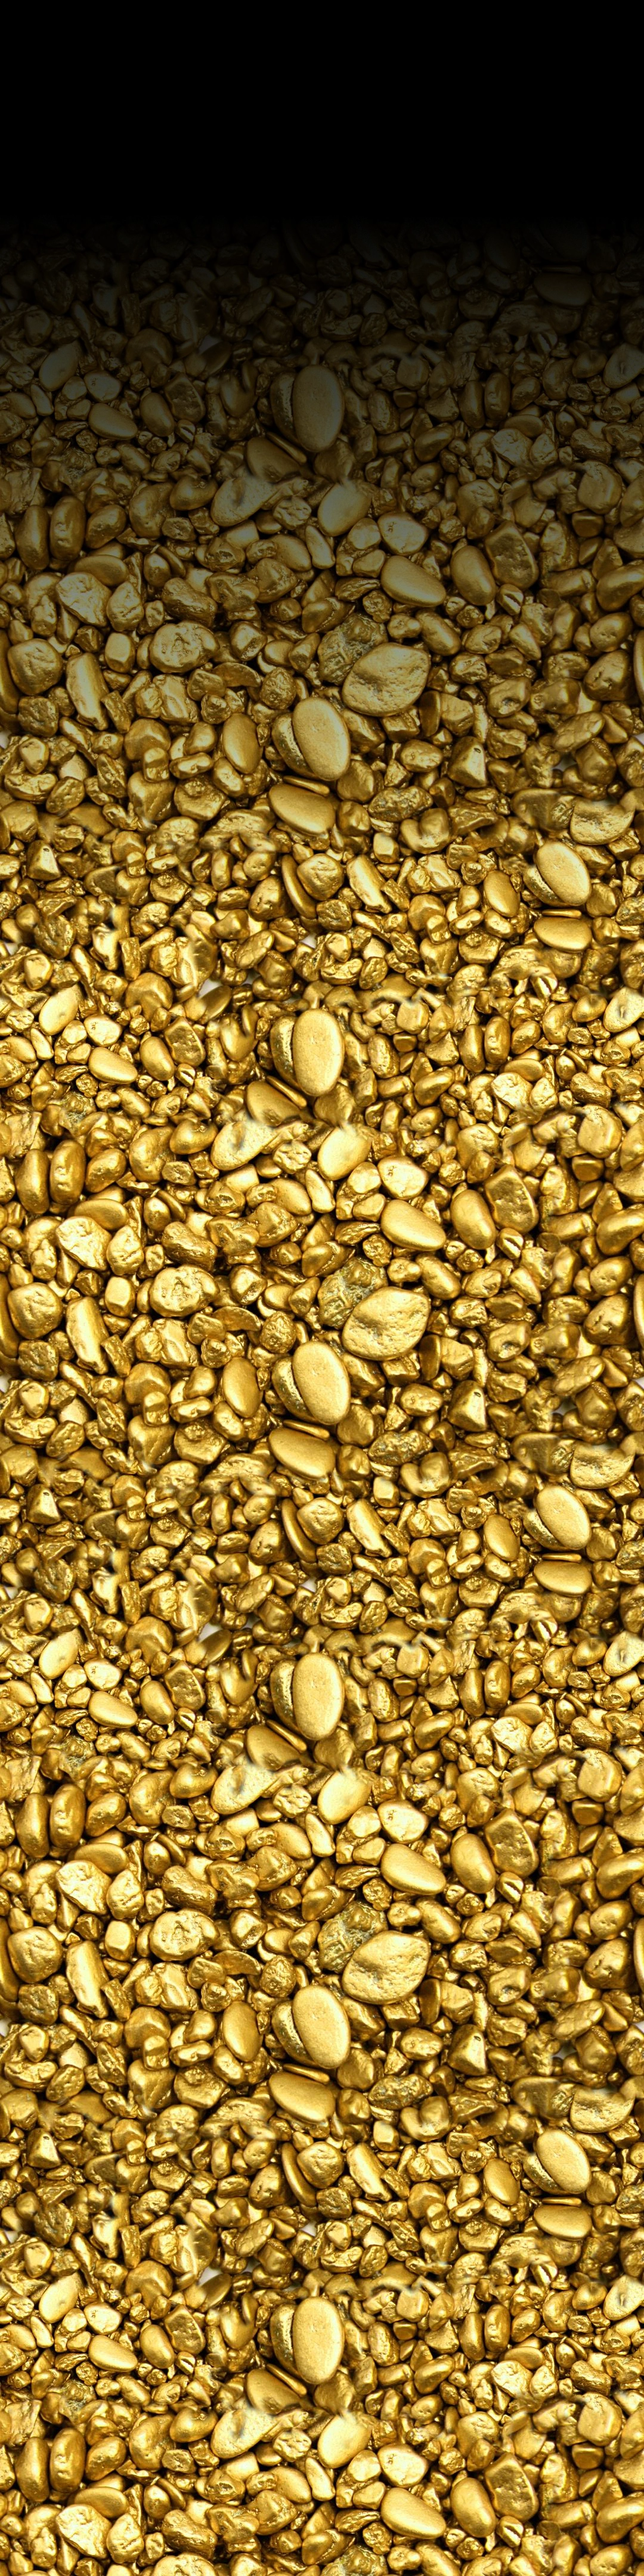
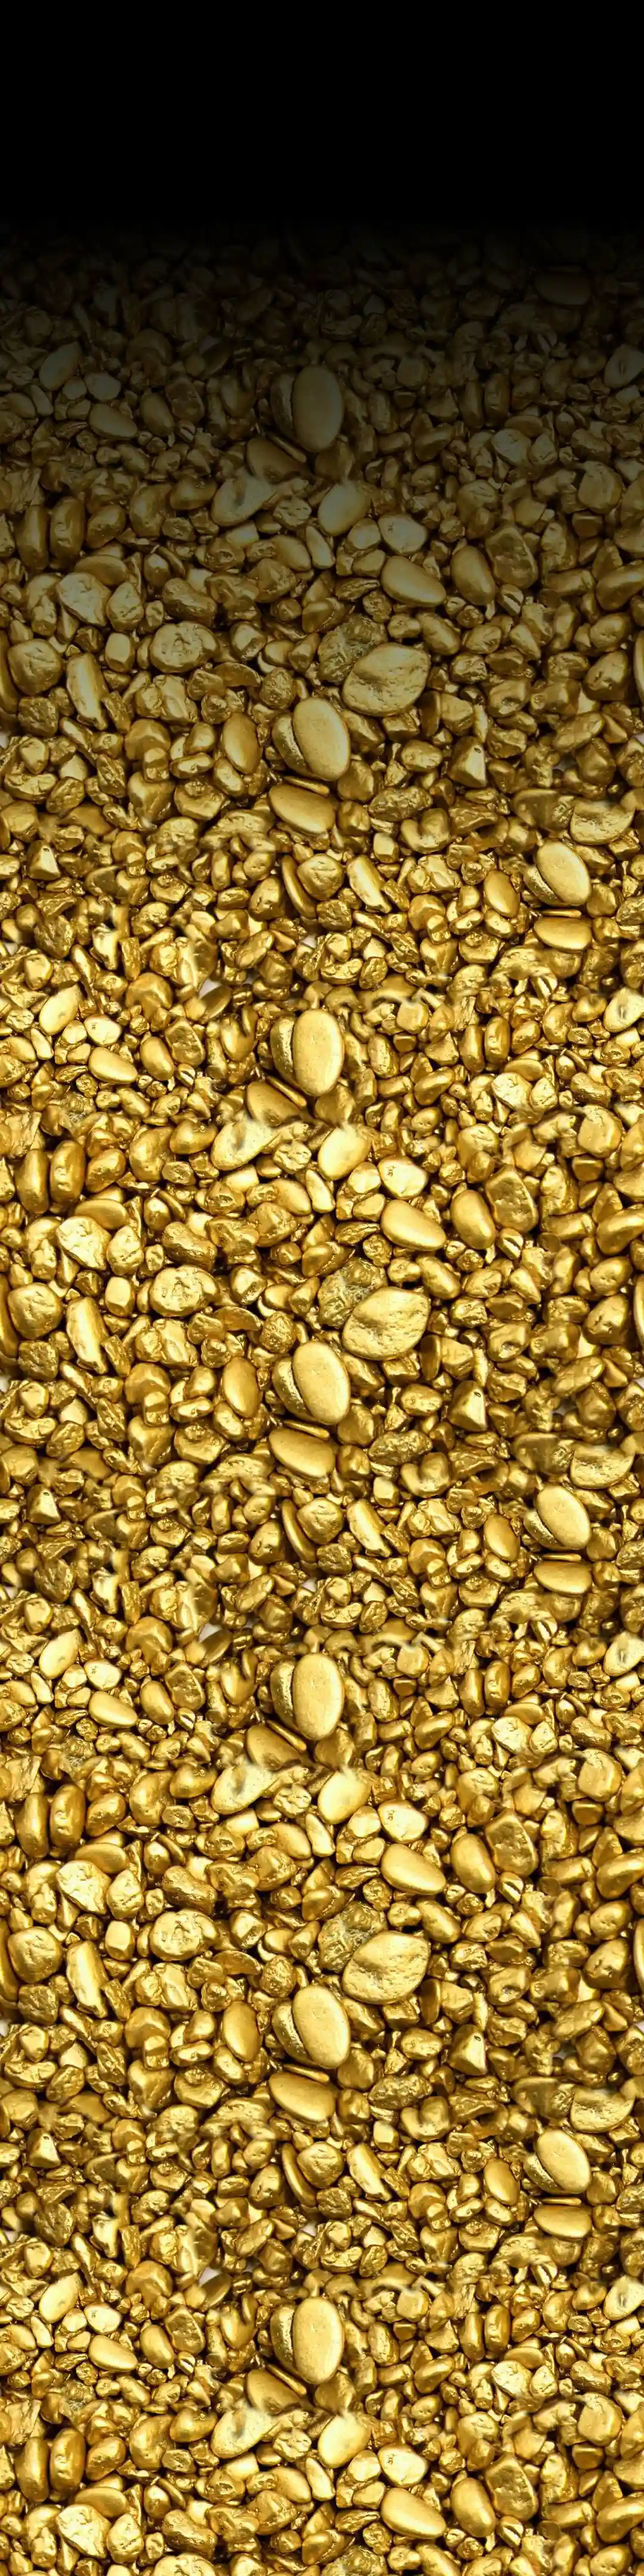
compressed images and moved css file to html public

diff --git a/frontend/src/pages/Home.js b/frontend/src/pages/Home.js
@@ -42,7 +42,7 @@ function Home () {
                         <span id="homeSubtext">EVERYTHING • EVERYONE • EVERYWHERE</span>
                         <Form className="row mx-3 mt-5 align-items-center" onSubmit={handleSubmit}>
                             <Col className="p-0" xs={10}><input type="text" id="homeSearch" placeholder="Search Nuggets..." className="rounded width100 text-center py-2" onChange={handleChange}/></Col>
-                            <Col className="p-0" xs={2}><Button variant={"theme"} type="submit" disabled={buttonDisabled} name="search" readOnly><FaSearch/></Button></Col>
+                            <Col className="p-0" xs={2}><Button variant={"theme"} type="submit" disabled={buttonDisabled} aria-label="search" readOnly><FaSearch/></Button></Col>
                         </Form>
                         <Row className="align-items-center text-center my-4 mx-1">
                             <Col className="break-line"/>

diff --git a/frontend/public/index.html b/frontend/public/index.html
@@ -36,6 +36,7 @@
     -->
     <link rel="preconnect" href="https://fonts.googleapis.com">
     <link rel="preconnect" href="https://fonts.gstatic.com" crossorigin>
+    <link href="./assets/style.css"  rel="preload" as="style" onload="this.onload=null;this.rel='stylesheet'">
     <link href="https://fonts.googleapis.com/css2?family=Merriweather&family=Poppins:wght@200&display=swap" rel="preload" as="style" onload="this.onload=null;this.rel='stylesheet'"> 
     <link href="https://fonts.googleapis.com/css2?family=Frank+Ruhl+Libre:wght@500&family=Noto+Serif+Vithkuqi:wght@500&family=Victor+Mono:wght@700&display=swap" rel="preload" as="style" onload="this.onload=null;this.rel='stylesheet'">
     <title>1001 Nuggets</title>

diff --git a/frontend/public/assets/style.css b/frontend/public/assets/style.css
@@ -11,13 +11,13 @@ a {
 }
 
 .bg-main {
-    background-image: url("../../public/assets/images/GoldNuggets3ExtendedGrad.webp")!important;
+    background-image: url("./images/GoldNuggets3ExtendedGrad.webp")!important;
     background-size: 100% auto;
     min-height: 89vh;
 }
 
 .bg-nugget {
-    background-image: url("../../public/assets/images/GoldNuggets3Extended.webp")!important;
+    background-image: url("./images/GoldNuggets3Extended.webp")!important;
     background-size: 100% auto;
     background-repeat: repeat;
     min-height: 100%;

diff --git a/frontend/src/App.js b/frontend/src/App.js
@@ -4,7 +4,6 @@ import { ApolloClient, ApolloProvider, createHttpLink, InMemoryCache } from "@ap
 import { setContext } from "@apollo/client/link/context";
 
 //Styles
-import "./assets/style.css";
 import 'bootstrap/dist/css/bootstrap.min.css';
 
 //Components
